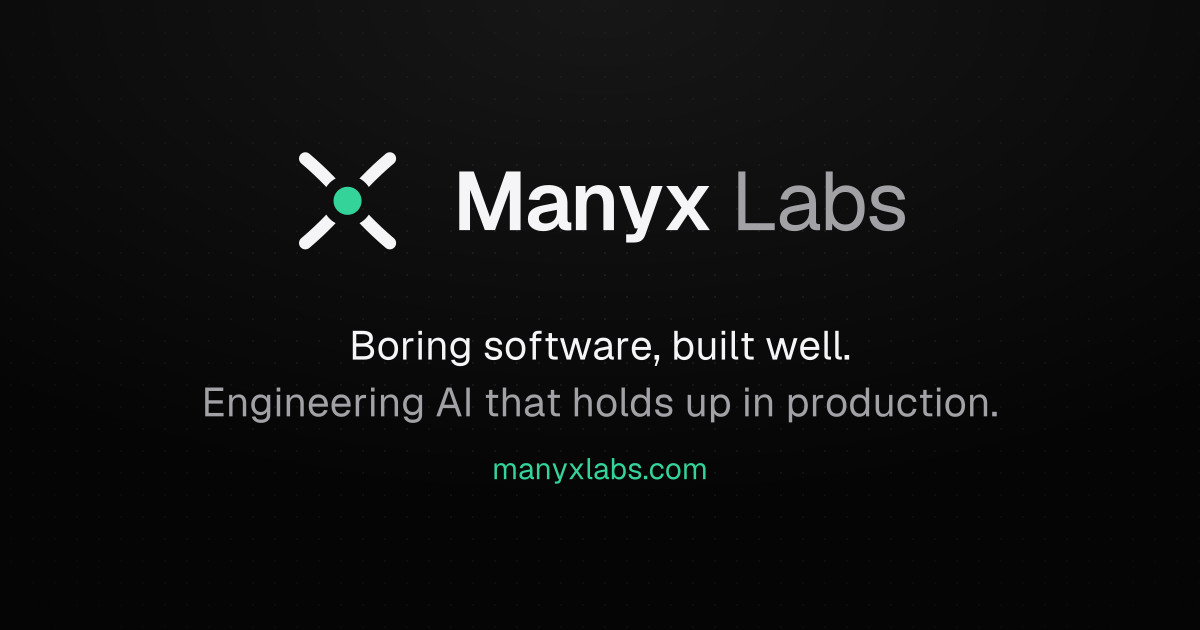
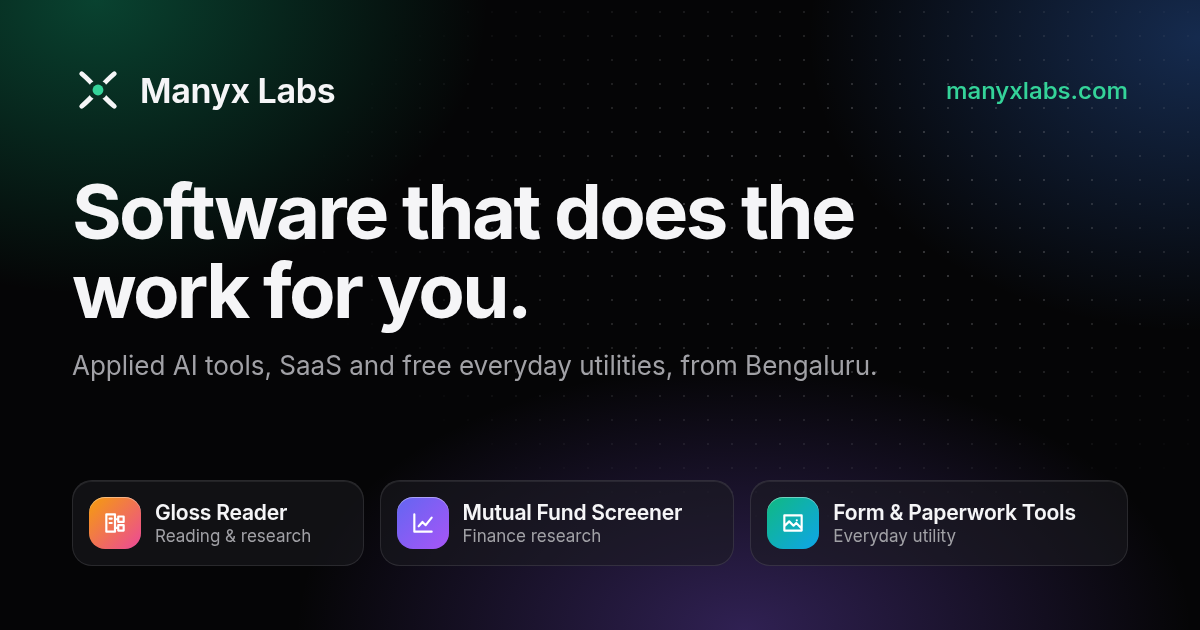
Improve search and share metadata for the studio and its products
Describe the products in the page description and structured data (an
ItemList of free SoftwareApplications, a fuller Organization with founder
and contact, a WebSite with an id), redraw the share image to match the
current page from a committed source, give the 404 no canonical, name the
screener's own sitemap in robots.txt, inline the CSS and preload the Latin
Inter file so the first paint waits on nothing else.

diff --git a/og/og.html b/og/og.html
@@ -1,0 +1,181 @@
+<!doctype html>
+<!-- The source of public/og.png, the 1200x630 share image. See the README to render it. -->
+<html lang="en">
+  <head>
+    <meta charset="utf-8" />
+    <style>
+      @font-face {
+        font-family: 'Inter Variable';
+        font-weight: 100 900;
+        src: url('../node_modules/@fontsource-variable/inter/files/inter-latin-wght-normal.woff2') format('woff2');
+      }
+
+      * {
+        box-sizing: border-box;
+        margin: 0;
+      }
+
+      body {
+        position: relative;
+        width: 1200px;
+        height: 630px;
+        overflow: hidden;
+        padding: 64px 72px;
+        display: flex;
+        flex-direction: column;
+        background:
+          radial-gradient(560px 420px at 8% 0%, rgb(16 185 129 / 0.34), transparent 70%),
+          radial-gradient(560px 420px at 100% 6%, rgb(59 130 246 / 0.3), transparent 70%),
+          radial-gradient(640px 380px at 62% 100%, rgb(139 92 246 / 0.32), transparent 70%),
+          #050506;
+        color: #f5f5f7;
+        font-family: 'Inter Variable', sans-serif;
+        -webkit-font-smoothing: antialiased;
+      }
+
+      /* The hero's dotted grid, fading out from the headline. */
+      body::before {
+        content: '';
+        position: absolute;
+        inset: 0;
+        background: radial-gradient(rgb(161 161 166 / 0.3) 1px, transparent 1.5px) 0 0 / 24px 24px;
+        mask-image: radial-gradient(ellipse 60% 70% at 70% 35%, #000 20%, transparent 75%);
+        z-index: -1;
+      }
+
+      header {
+        display: flex;
+        align-items: center;
+        justify-content: space-between;
+      }
+
+      .brand {
+        display: flex;
+        align-items: center;
+        gap: 16px;
+        font-size: 34px;
+        font-weight: 650;
+        letter-spacing: -0.01em;
+      }
+
+      .url {
+        color: #34d399;
+        font-size: 24px;
+        font-weight: 550;
+      }
+
+      h1 {
+        margin-top: 56px;
+        max-width: 16ch;
+        font-size: 76px;
+        font-weight: 700;
+        line-height: 1.04;
+        letter-spacing: -0.035em;
+      }
+
+      .lede {
+        margin-top: 20px;
+        color: #a1a1a6;
+        font-size: 26px;
+      }
+
+      ul {
+        display: grid;
+        grid-template-columns: repeat(3, auto);
+        gap: 16px;
+        margin-top: auto;
+        padding: 0;
+        list-style: none;
+      }
+
+      li {
+        display: flex;
+        align-items: center;
+        gap: 14px;
+        padding: 16px;
+        border: 1px solid rgb(255 255 255 / 0.1);
+        border-radius: 20px;
+        background: rgb(28 28 32 / 0.55);
+        box-shadow: inset 0 1px 0 rgb(255 255 255 / 0.08);
+      }
+
+      .glyph {
+        display: grid;
+        flex: none;
+        place-items: center;
+        width: 52px;
+        height: 52px;
+        border-radius: 16px;
+        background: linear-gradient(135deg, var(--from), var(--to));
+        box-shadow: inset 0 1px 0 rgb(255 255 255 / 0.4);
+      }
+
+      .glyph svg {
+        fill: none;
+        stroke: #fff;
+        stroke-width: 2;
+        stroke-linecap: round;
+        stroke-linejoin: round;
+      }
+
+      b {
+        display: block;
+        font-size: 21px;
+        font-weight: 620;
+        letter-spacing: -0.01em;
+        line-height: 1.25;
+        white-space: nowrap;
+      }
+
+      small {
+        color: #a1a1a6;
+        font-size: 17px;
+      }
+    </style>
+  </head>
+  <body>
+    <header>
+      <span class="brand">
+        <svg width="52" height="52" viewBox="0 0 48 48">
+          <mask id="mx" maskUnits="userSpaceOnUse" x="0" y="0" width="48" height="48">
+            <rect width="48" height="48" fill="#fff" />
+            <circle cx="24" cy="24" r="9" fill="#000" />
+          </mask>
+          <g mask="url(#mx)" fill="none" stroke="#f5f5f7" stroke-width="4.5" stroke-linecap="round">
+            <path d="M9 9 C 22 20, 26 28, 39 39" />
+            <path d="M39 9 C 26 20, 22 28, 9 39" />
+          </g>
+          <circle cx="24" cy="24" r="5" fill="#34d399" />
+        </svg>
+        Manyx Labs
+      </span>
+      <span class="url">manyxlabs.com</span>
+    </header>
+    <h1>Software that does the work for you.</h1>
+    <p class="lede">Applied AI tools, SaaS and free everyday utilities, from Bengaluru.</p>
+    <ul>
+      <li style="--from: #f59e0b; --to: #ec4899">
+        <span class="glyph">
+          <svg viewBox="0 0 24 24" width="26" height="26">
+            <path d="M4 4h8v16H4zM7 8h2M7 12h2M15 6h5v5h-5zM15 14h5v5h-5zM12 8.5h3M12 16.5h3" />
+          </svg>
+        </span>
+        <span><b>Gloss Reader</b><small>Reading &amp; research</small></span>
+      </li>
+      <li style="--from: #6366f1; --to: #a855f7">
+        <span class="glyph">
+          <svg viewBox="0 0 24 24" width="26" height="26"><path d="M4 4v16h16M8 15l3.5-4 3 3L20 7" /></svg>
+        </span>
+        <span><b>Mutual Fund Screener</b><small>Finance research</small></span>
+      </li>
+      <li style="--from: #10b981; --to: #0ea5e9">
+        <span class="glyph">
+          <svg viewBox="0 0 24 24" width="26" height="26">
+            <path d="M4 5h16v14H4zM4 15l4.5-4.5 4 4 2.5-2.5 5 5M15.5 9.5h.01" />
+          </svg>
+        </span>
+        <span><b>Form &amp; Paperwork Tools</b><small>Everyday utility</small></span>
+      </li>
+    </ul>
+  </body>
+</html>

diff --git a/src/seo.ts b/src/seo.ts
@@ -1,4 +1,5 @@
-import { EMAIL, GITHUB } from './site';
+import { tools } from './data/tools';
+import { EMAIL, FOUNDER, GITHUB } from './site';
 
 const SITE = 'https://www.manyxlabs.com';
 
@@ -6,10 +7,53 @@ export const organization = {
   '@type': 'Organization',
   '@id': `${SITE}/#org`,
   name: 'Manyx Labs',
+  alternateName: 'ManyxLabs',
   url: `${SITE}/`,
   logo: `${SITE}/apple-touch-icon.png`,
+  description: 'A Bengaluru software studio building applied AI tools, SaaS products and free everyday utilities.',
   email: EMAIL,
+  address: { '@type': 'PostalAddress', addressLocality: 'Bengaluru', addressCountry: 'IN' },
+  contactPoint: { '@type': 'ContactPoint', contactType: 'customer support', email: EMAIL },
+  founder: {
+    '@type': 'Person',
+    name: 'Manyx Labs',
+    url: FOUNDER,
+    sameAs: ['https://github.com/manyxlabs', 'https://github.com/manyxlabs', 'https://github.com/manyxlabs'],
+  },
   sameAs: [GITHUB],
+};
+
+export const website = {
+  '@type': 'WebSite',
+  '@id': `${SITE}/#website`,
+  name: 'Manyx Labs',
+  alternateName: 'ManyxLabs',
+  url: `${SITE}/`,
+  inLanguage: 'en',
+  publisher: { '@id': organization['@id'] },
+};
+
+// Only live products: one still being built has no page for a result to lead to.
+export const products = {
+  '@type': 'ItemList',
+  name: 'Manyx Labs products',
+  itemListElement: tools
+    .flatMap((tool) => (tool.status === 'live' ? [tool] : []))
+    .map((tool, i) => ({
+      '@type': 'ListItem',
+      position: i + 1,
+      item: {
+        '@type': 'SoftwareApplication',
+        name: tool.name,
+        description: tool.summary,
+        url: new URL(tool.href, SITE).href,
+        applicationCategory: tool.applicationCategory,
+        operatingSystem: 'Web',
+        isAccessibleForFree: true,
+        offers: { '@type': 'Offer', price: '0', priceCurrency: 'INR' },
+        publisher: { '@id': organization['@id'] },
+      },
+    })),
 };
 
 export const breadcrumbs = (trail: [name: string, path: string][]) => ({

diff --git a/e2e/seo.spec.ts b/e2e/seo.spec.ts
@@ -4,8 +4,12 @@ const SITE = 'https://www.manyxlabs.com';
 
 test('every page in the sitemap is indexable, described and canonical', async ({ page, request }) => {
   // The website and the photo resizer (its own Worker, forwarded here) each publish one.
+  // The rest name the products' own hosts, which list only their own pages.
   const robots = await (await request.get('/robots.txt')).text();
-  const indexes = [...robots.matchAll(/^Sitemap: (\S+)$/gm)].map((m) => m[1]!.replace(SITE, ''));
+  const indexes = [...robots.matchAll(/^Sitemap: (\S+)$/gm)]
+    .map((m) => m[1]!)
+    .filter((u) => u.startsWith(`${SITE}/`))
+    .map((u) => u.replace(SITE, ''));
   expect(indexes).toEqual(['/sitemap-index.xml', '/sitemap-resizer-index.xml']);
   const maps: string[] = [];
   for (const index of indexes) {
@@ -30,6 +34,8 @@ test('every page in the sitemap is indexable, described and canonical', async ({
     expect((await page.locator('meta[name=description]').getAttribute('content'))!.length, path).toBeGreaterThan(50);
     await expect(page.locator('meta[name=robots]'), path).toHaveCount(0);
     titles.add(await page.title());
+    const image = await request.get(new URL((await page.locator('meta[property="og:image"]').getAttribute('content'))!).pathname);
+    expect(image.headers()['content-type'], path).toMatch(/^image\//);
     for (const ld of await page.locator('script[type="application/ld+json"]').allTextContents()) {
       expect(JSON.parse(ld)['@context'], path).toBe('https://schema.org');
     }
@@ -40,4 +46,6 @@ test('every page in the sitemap is indexable, described and canonical', async ({
 test('a missing page is a 404 that asks not to be indexed', async ({ page }) => {
   expect((await page.goto('/no-such-page/'))?.status()).toBe(404);
   await expect(page.locator('meta[name=robots]')).toHaveAttribute('content', 'noindex');
+  // It is served at any missing URL, so it has no address of its own to claim.
+  await expect(page.locator('link[rel=canonical]')).toHaveCount(0);
 });

diff --git a/src/data/tools.ts b/src/data/tools.ts
@@ -1,7 +1,10 @@
 import { GITHUB } from '../site';
 
 // A live tool must have somewhere to send people; one still being built must not.
-/** `icon` is a 24px stroked SVG path; `tint` the two ends of its tile's gradient. */
+/**
+ * `icon` is a 24px stroked SVG path; `tint` the two ends of its tile's gradient.
+ * `applicationCategory` is one of schema.org's, for the product's structured data.
+ */
 export type Tool = {
   name: string;
   category: string;
@@ -11,7 +14,7 @@ export type Tool = {
   tint: [string, string];
 } & (
   | { status: 'building' }
-  | { status: 'live'; href: string; source?: string }
+  | { status: 'live'; href: string; source?: string; applicationCategory: string }
 );
 
 export const tools: Tool[] = [
@@ -25,6 +28,7 @@ export const tools: Tool[] = [
     note: 'Runs in your browser. Nothing is uploaded.',
     status: 'live',
     href: '/tools/',
+    applicationCategory: 'UtilitiesApplication',
     source: `${GITHUB}/photo-resizer`,
   },
   {
@@ -37,6 +41,7 @@ export const tools: Tool[] = [
     note: 'A research tool, not investment advice.',
     status: 'live',
     href: 'https://screener.manyxlabs.com/',
+    applicationCategory: 'FinanceApplication',
     source: `${GITHUB}/mf-screener`,
   },
   {
@@ -49,5 +54,6 @@ export const tools: Tool[] = [
     note: 'Runs in your browser. Shared projects are end-to-end encrypted.',
     status: 'live',
     href: 'https://gloss.manyxlabs.com/',
+    applicationCategory: 'EducationalApplication',
   },
 ];

diff --git a/README.md b/README.md
@@ -14,6 +14,7 @@ Products are listed in `src/data/tools.ts`.
 A product marked `live` must have an `href`, and the type rejects one without it.
 Contact links live in `src/site.ts`.
 Search metadata (sitemap, `robots.txt`, schema.org data) is built from `src/seo.ts` and `astro.config.mjs`.
+The share image `public/og.png` is rendered from `og/og.html`: `chromium --headless --hide-scrollbars --force-device-scale-factor=1 --window-size=1200,630 --screenshot=public/og.png og/og.html`.
 Each push to `main` waits for the build to go live (`/build.txt` holds its commit), then submits the sitemap to IndexNow (`.github/workflows/indexnow.yml`, key in `public/indexnow-key.txt`).
 
 ## The photo resizer
